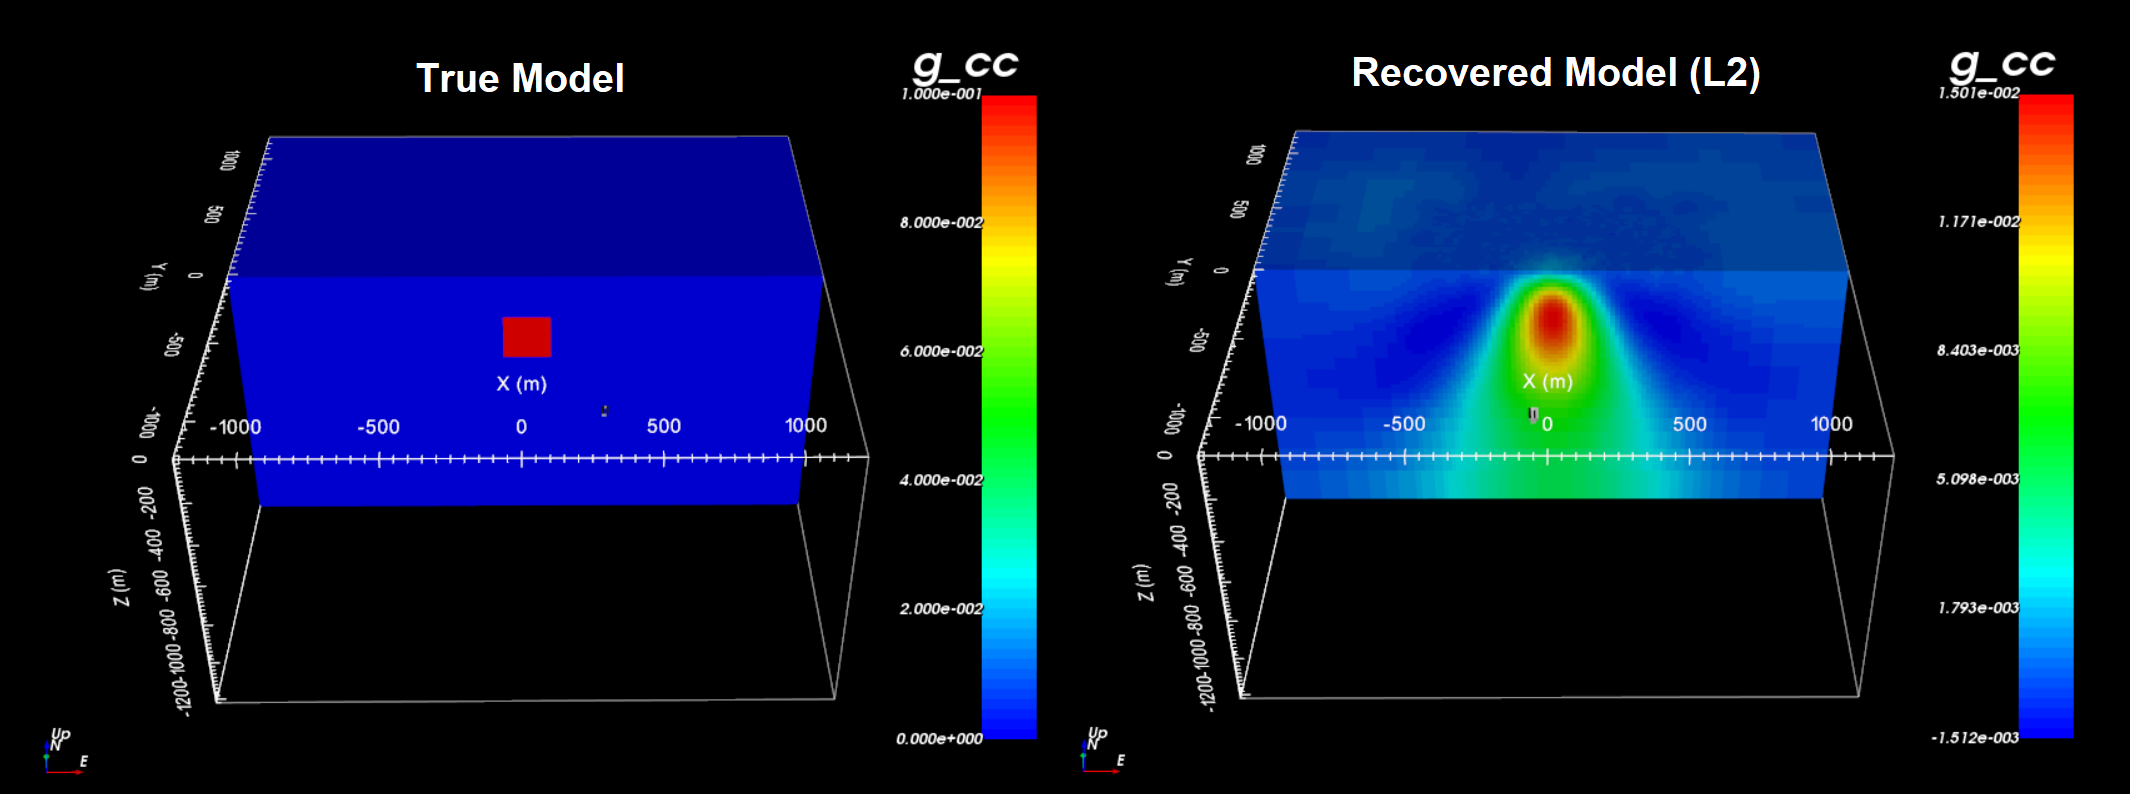
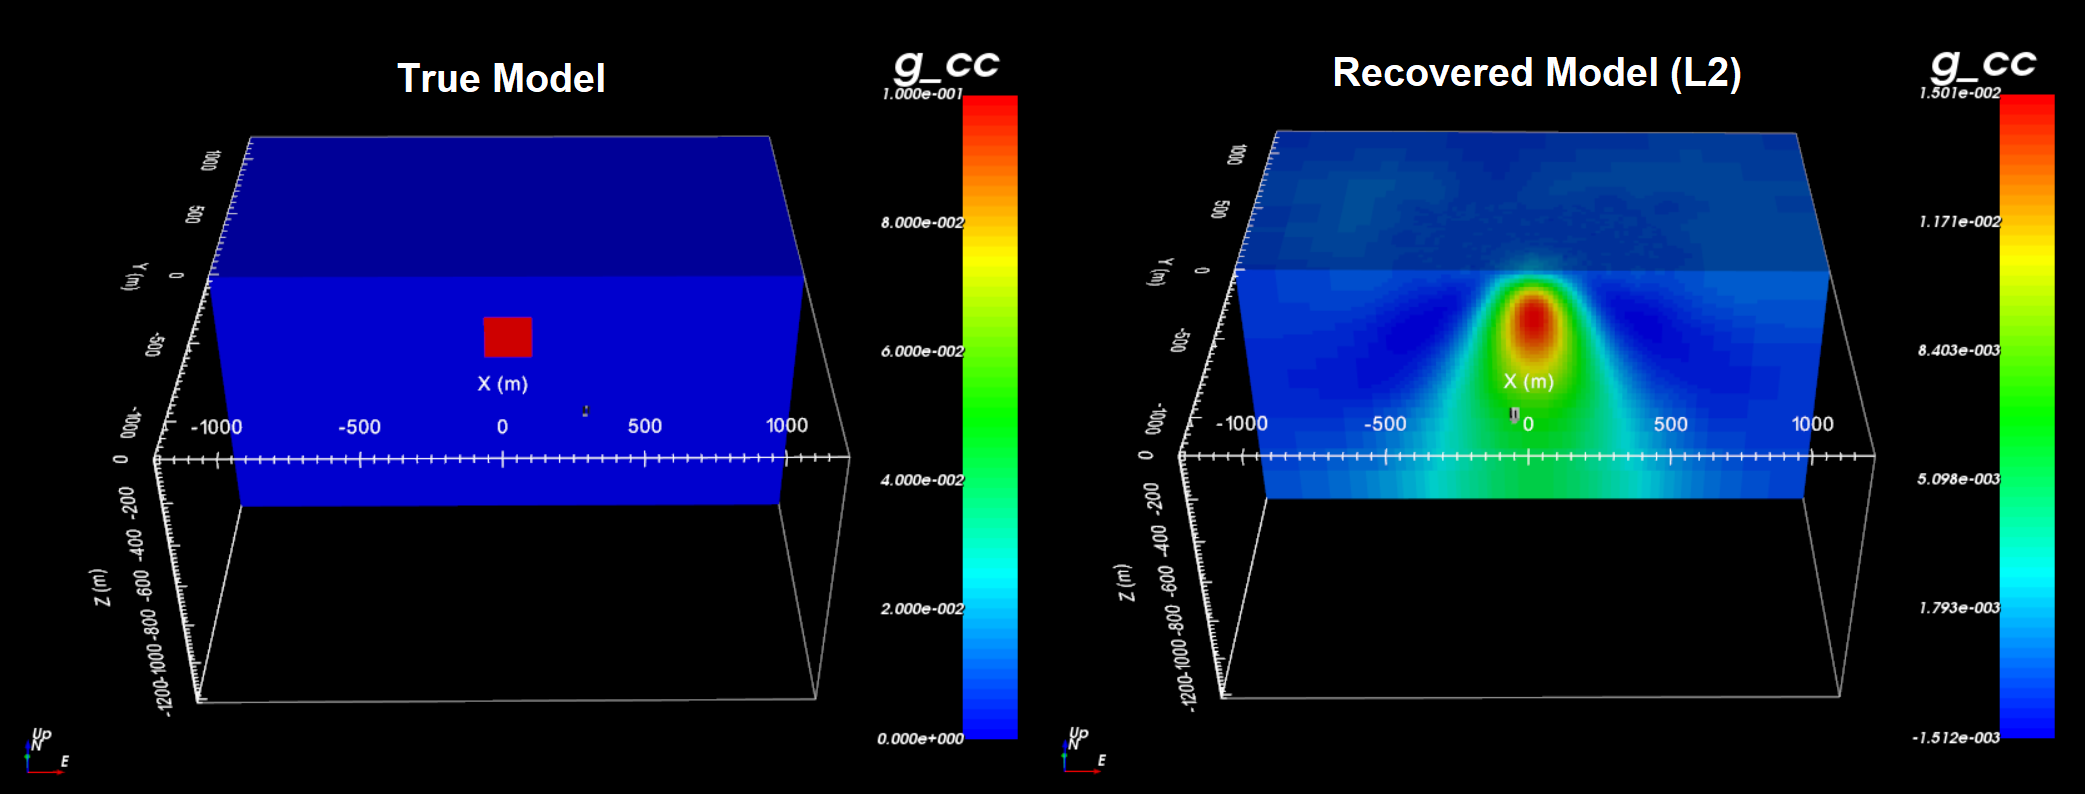
add sparse norm inversion to example

diff --git a/content/example/inv_sparse.rst b/content/example/inv_sparse.rst
@@ -3,46 +3,44 @@
 Sparse Norm Inversion
 =====================
 
-.. important:: There are currently issues with the algorithm for sparse norm inversion. This is being investigated and will be fixed soon. June 28th, 2022.
+Here, we use **ggsen3d.exe** to compute the sensitivity matrix required for the inversion; which is scaled by distance weighting provided. We then use **gginv3d.exe** to invert the data using sparse norms to recover a model compact density contrast model. To keep the example simple, we added Gaussian noise with a standard deviation of 0.1 Eotvos to all data. We then assigned uncertainties of 0.1 Eotvos to all data. In practice, the noise on the data is not trivial to quantify and choosing appropriate uncertainties is very important for successful inversion.
 
-.. Here, we use **ggsen3d.exe** to compute the sensitivity matrix required for the inversion; which is scaled by distance weighting provided. We then use **gginv3d.exe** to invert the data using sparse norms to recover a model compact density contrast model. To keep the example simple, we added Gaussian noise with a standard deviation of 0.1 Eotvos to all data. We then assigned uncertainties of 0.1 Eotvos to all data. In practice, the noise on the data is not trivial to quantify and choosing appropriate uncertainties is very important for successful inversion.
+Files relevant to this part of the example are in the sub-folder *inv_sparse* . Before running this example, you may want to do the following:
 
-.. Files relevant to this part of the example are in the sub-folder *inv_sparse* . Before running this example, you may want to do the following:
-
-..     - `Download and open the zip folder containing the entire gg3d v6 example <https://github.com/ubcgif/gg3d/raw/master/assets/gg3d_v6_example.zip>`__ (if not done already)
-..     - Learn how to run :ref:`ggsen3d.exe <gg3d_sens>` and :ref:`gginv3d.exe <gg3d_inv>` from the command line
-..     - Learn the format of the :ref:`input file for ggsen3d.exe <gg3d_sens_input>` and of the :ref:`input file for gginv3d.exe <gg3d_inv_input>`
+    - `Download and open the zip folder containing the entire gg3d v6 example <https://github.com/ubcgif/gg3d/raw/master/assets/gg3d_v6_example.zip>`__ (if not done already)
+    - Learn how to run :ref:`ggsen3d.exe <gg3d_sens>` and :ref:`gginv3d.exe <gg3d_inv>` from the command line
+    - Learn the format of the :ref:`input file for ggsen3d.exe <gg3d_sens_input>` and of the :ref:`input file for gginv3d.exe <gg3d_inv_input>`
 
 
-.. Sensitivities
-.. -------------
+Sensitivities
+-------------
 
-.. Here, the code **ggsen3d.exe** and the input file **sens.inp** (:ref:`see format <gg3d_sens_input>` ) are used to construct the sensitivity matrix and scale it using distance weighting. The distance weighting is applied to the sensitivity matrix to counteract the inversion's natural tendancy to incorrectly place anomalous structures near the observation locations. 
+Here, the code **ggsen3d.exe** and the input file **sens.inp** (:ref:`see format <gg3d_sens_input>` ) are used to construct the sensitivity matrix and scale it using distance weighting. The distance weighting is applied to the sensitivity matrix to counteract the inversion's natural tendancy to incorrectly place anomalous structures near the observation locations. 
 
-.. To compute the sensitivities, the following input file was used. Since we are no longer performed an least-squares inversion, a flag of *0* must be entered on the last line of the input file.
+To compute the sensitivities, the following input file was used. Since we are no longer performed an least-squares inversion, a flag of *0* must be entered on the last line of the input file.
 
-.. .. figure:: images/sensitivity_sparse_input.png
-..      :align: center
-..      :width: 700
+.. figure:: images/sensitivity_sparse_input.png
+     :align: center
+     :width: 700
 
 
 
-.. Inversion
-.. ---------
+Inversion
+---------
 
-.. Here, the code **gginv3d.exe** and the input file **inv.inp** (:ref:`see format<gg3d_inv_input>` ) was used to recover a susceptibility model. You cannot perform the inversion until you have created the sensitivity matrix. For this example, we set *P=0* and *Qx=Qy=Qz=2*. That is, we would like to recover a model that is compact but still smooth. To see how these parameters impact the recovered model, see the `GIFtools cookbook <https://giftoolscookbook.readthedocs.io/en/latest/content/fundamentals/Norms.html>`__ .
-
-
-.. .. figure:: images/inv_sparse_input.png
-..      :align: center
-..      :width: 700
-
-.. The true model (left), recovered model using least-squares (middle) and recovered model using sparse norms (right) are shown below. Unlike the least-squares result, the sparse norm result is a compact structure whose maximum amplitude is much closer to that of the true model. And the distance weighting is able to place the center of the recovered model at the correct depth.
+Here, the code **gginv3d.exe** and the input file **inv.inp** (:ref:`see format<gg3d_inv_input>` ) was used to recover a susceptibility model. You cannot perform the inversion until you have created the sensitivity matrix. For this example, we set *P=0* and *Qx=Qy=Qz=2*. That is, we would like to recover a model that is compact but still smooth. To see how these parameters impact the recovered model, see the `GIFtools cookbook <https://giftoolscookbook.readthedocs.io/en/latest/content/fundamentals/Norms.html>`__ .
 
 
-.. .. figure:: images/model_sparse.png
-..      :align: center
-..      :width: 700
+.. figure:: images/inv_sparse_input.png
+     :align: center
+     :width: 700
+
+The true model (left), recovered model using least-squares (middle) and recovered model using sparse norms (right) are shown below. Unlike the least-squares result, the sparse norm result is a compact structure whose maximum amplitude is much closer to that of the true model. And the distance weighting is able to place the center of the recovered model at the correct depth.
+
+
+.. figure:: images/model_sparse.png
+     :align: center
+     :width: 700
 
 
 

diff --git a/content/elements.rst b/content/elements.rst
@@ -1,9 +1,11 @@
 .. _elements:
 
-Elements of the GG3D v6.0 Package
-=================================
+.. important:: In 2022-10, a more exact definition of the regularization was implemented in **gginv3d.exe** for sparse-norm inversion. The package containing the improved executable was released as **GG3D v6.0.1**. Be aware that GG3D v6.0 and v6.0.1 have all the same features and use the same executable names. Differences in the recovered model using each package were found to be insignificant.
 
-This section provides a brief description of each program in the GG3D v6.0 library. In addition, we describe the file formats for all input and supporting files used by the coding library.
+Elements of the GG3D v6.0/v6.0.1 Package
+========================================
+
+This section provides a brief description of each program in the GG3D v6.0/v6.0.1 library. In addition, we describe the file formats for all input and supporting files used by the coding library.
 
 Introduction
 ------------
@@ -28,7 +30,7 @@ Utility codes relevant to this package include:
 Main Input Files
 ----------------
 
-Here, we describe the main input files for executables contained with the GG3D v6.0 coding package.
+Here, we describe the main input files for executables contained with the GG3D v6.0/v6.0.1 coding package.
 
 .. toctree::
     :maxdepth: 1
@@ -43,7 +45,7 @@ Here, we describe the main input files for executables contained with the GG3D v
 General files for GG3D programs
 ---------------------------------
 
-Here, we describe the formats of supplementary files used to run GG3D v6.0.
+Here, we describe the formats of supplementary files used to run GG3D v6.0/v6.0.1.
 
 .. toctree::
     :maxdepth: 1

diff --git a/index.rst b/index.rst
@@ -1,15 +1,15 @@
-.. GG3D documentation master file
+.. important:: In 2022-10, a more exact definition of the regularization was implemented in **gginv3d.exe** for sparse-norm inversion. The package containing the improved executable was released as **GG3D v6.0.1**. Be aware that GG3D v6.0 and v6.0.1 have all the same features and use the same executable names. Differences in the recovered model using each package were found to be insignificant.
 
-GG3D v6.0 Package
-=================
+GG3D v6.0/v6.0.1 Package
+========================
 
-GG3D v6.0 is a program library for carrying out forward modelling and inversion of surface, borehole, and airborne gravity gradiometry data in 3D.
+GG3D v6.0/v6.0.1 is a program library for carrying out forward modelling and inversion of surface, borehole, and airborne gravity gradiometry data in 3D.
 
 
-Highlights of GG3D v6.0
-^^^^^^^^^^^^^^^^^^^^^^^^^
+Highlights of GG3D v6.0/v6.0.1
+^^^^^^^^^^^^^^^^^^^^^^^^^^^^^^
 
-Many advancements have been made since the previous version of this coding package. Highlights of GG3D v6.0 include:
+Many advancements have been made since the previous version of this coding package. Highlights of GG3D v6.0/v6.0.1 include:
 
 
     - the ability to forward model and invert surface, borehole, and airborne gravity gradiometry data in 3D

diff --git a/content/examples.rst b/content/examples.rst
@@ -1,7 +1,7 @@
 .. _example:
 
 
-.. note:: A new example has been developed for demonstrating functionality specific to v6.0. The example can be completed using v5.0, however some functionality may not exist in v5.0 and the format of certain input files may differ slightly.
+.. note:: A new example has been developed for demonstrating functionality specific to v6.0/v6.0.1. The example can be completed using v5.0, however some functionality may not exist in v5.0 and the format of certain input files may differ slightly.
 
 Examples
 ========
@@ -11,7 +11,7 @@ Examples
 ..      :width: 700
 
 
-Here, the program libraries for GG3D v6.0 will be used to:
+Here, the program libraries for GG3D v6.0/v6.0.1 will be used to:
 
     - define a density contrast model on a tensor mesh
     - predict gravity gradiometry data for a synthetic density contrast model

diff --git a/content/overview.rst b/content/overview.rst
@@ -1,5 +1,7 @@
 .. _overview:
 
+.. important:: In 2022-10, a more exact definition of the regularization was implemented in **gginv3d.exe** for sparse-norm inversion. The package containing the improved executable was released as **GG3D v6.0.1**. Be aware that GG3D v6.0 and v6.0.1 have all the same features and use the same executable names. Differences in the recovered model using each package were found to be insignificant.
+
 GG3D package overview
 =======================
 

diff --git a/content/runPrograms.rst b/content/runPrograms.rst
@@ -1,5 +1,7 @@
 .. _running:
 
+.. important:: In 2022-10, a more exact definition of the regularization was implemented in **gginv3d.exe** for sparse-norm inversion. The package containing the improved executable was released as **GG3D v6.0.1**. Be aware that GG3D v6.0 and v6.0.1 have all the same features and use the same executable names. Differences in the recovered model using each package were found to be insignificant.
+
 Running the programs
 ====================
 

diff --git a/content/programs/gginv3d.rst b/content/programs/gginv3d.rst
@@ -1,5 +1,7 @@
 .. _gg3d_inv:
 
+.. important:: In 2022-10, a more exact definition of the regularization was implemented in **gginv3d.exe** for sparse-norm inversion. The package containing the improved executable was released as **GG3D v6.0.1**. Be aware that GG3D v6.0 and v6.0.1 have all the same features and use the same executable names. Differences in the recovered model using each package were found to be insignificant.
+
 Inversion Program
 =================
 
